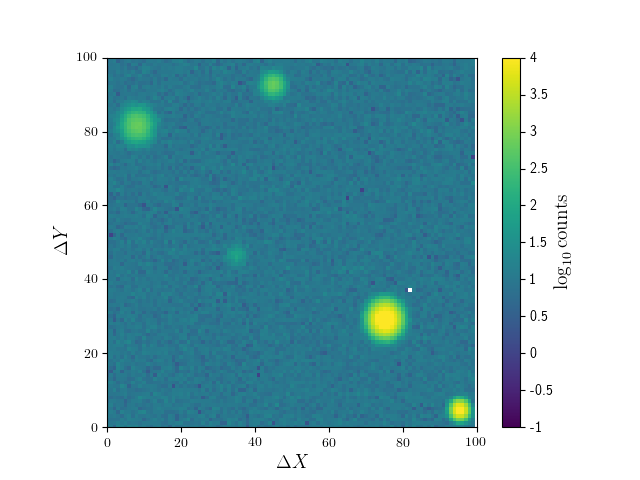
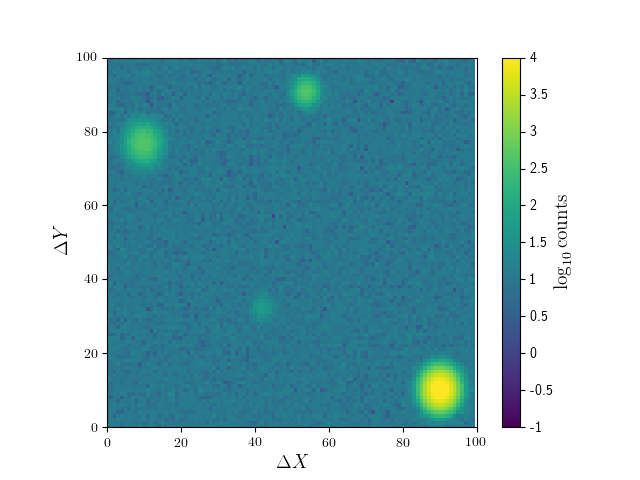
try flipping x and y dimensions

diff --git a/python-workshop/challenge1/ccd.py b/python-workshop/challenge1/ccd.py
@@ -32,7 +32,7 @@ def ccd(infile):
     noise = np.random.poisson(10.0, (NX, NY))
 
     # Bin star samples and add noise field
-    hist, xedges, yedges = np.histogram2d(ysam.flatten(), xsam.flatten(), (NX, NY))
+    hist, xedges, yedges = np.histogram2d(ysam.flatten(), xsam.flatten(), (NY, NX))
     hist += noise
 
     # Make plot
